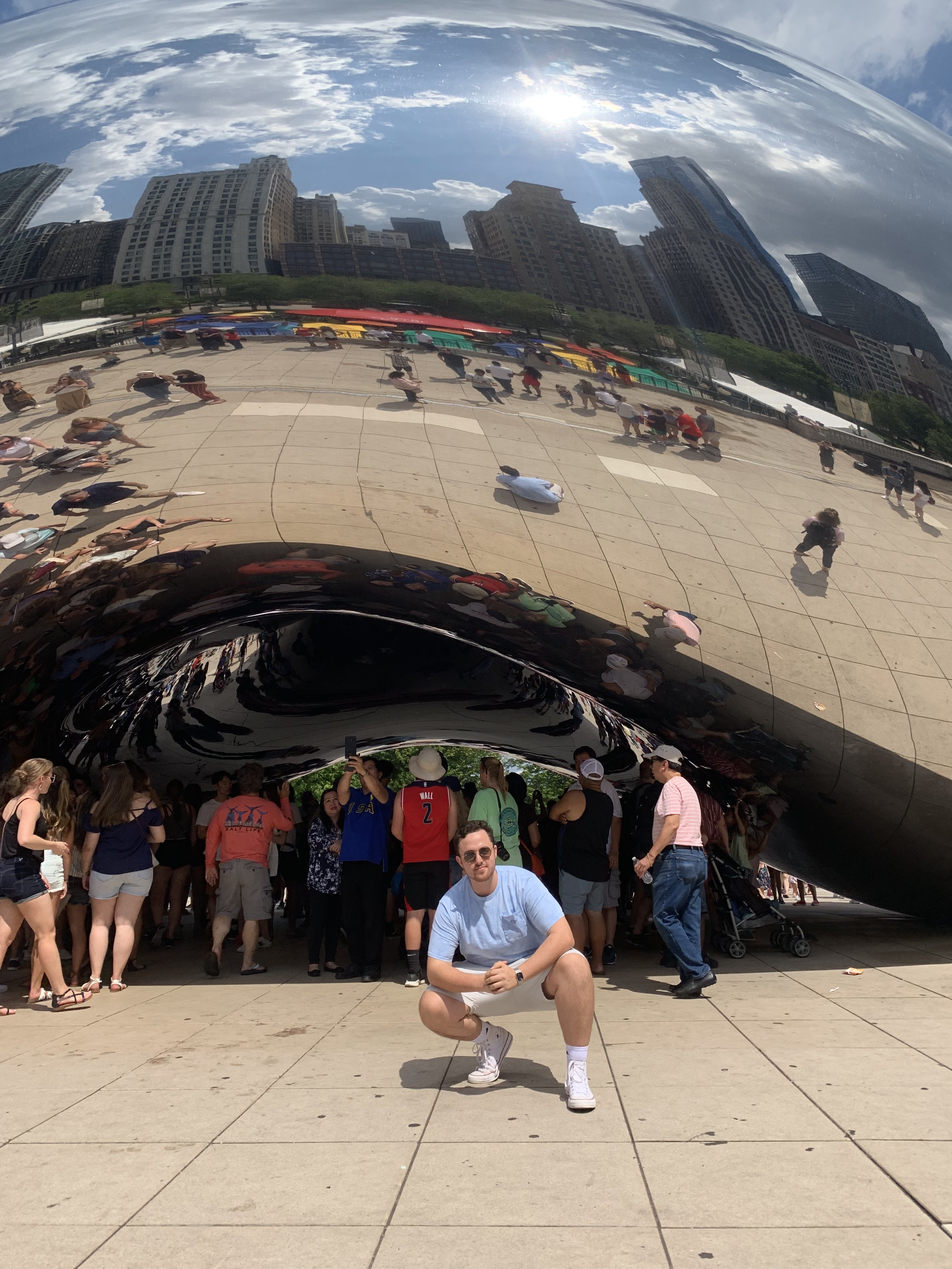
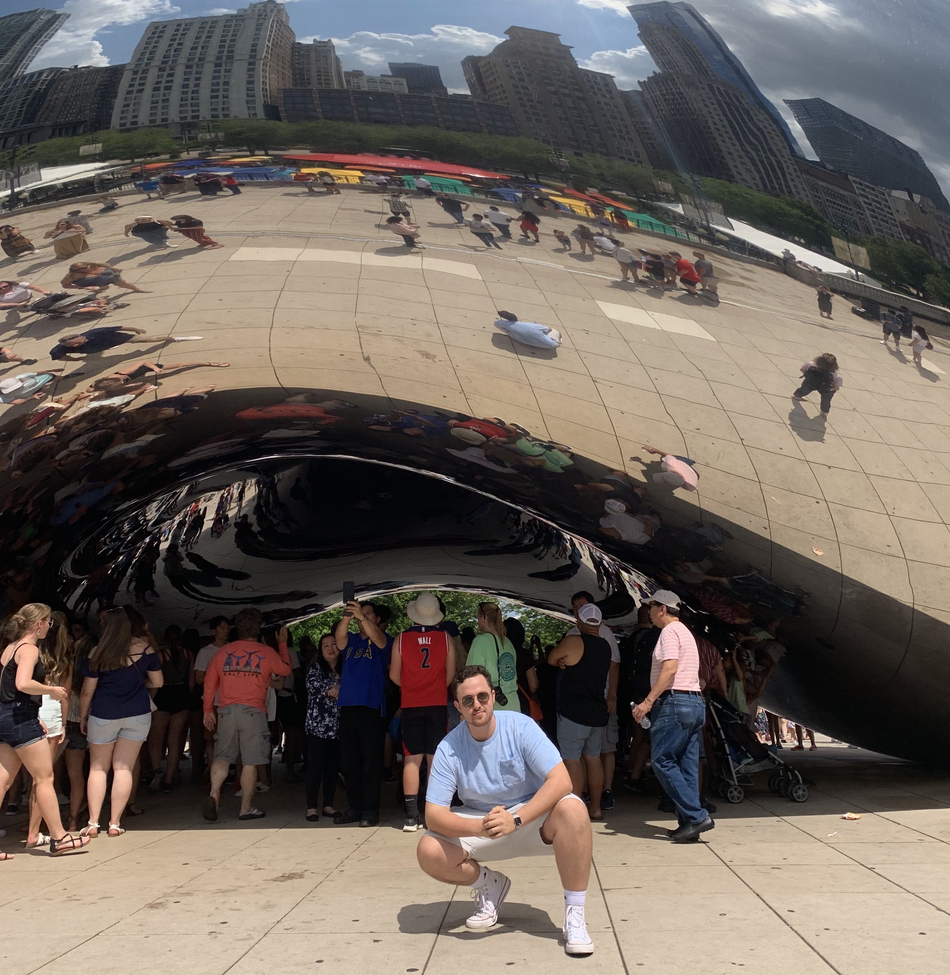
moved image and text to the middle of the screen

diff --git a/public/index.html b/public/index.html
@@ -6,13 +6,14 @@
     <link rel = "stylesheet" type="text/css" href="style.css"
   </head>
   <body>
-    <div class="">
+    <div class="container text-center">
       <h1>Big Bean Energy</h1>
     </div>
-    <div class="">
+    <div class="container justify-content-center">
       <img src="Jose.jpeg"
-        alt="big bean" width="80%">
+        alt="big bean" width="100%">
     </div>
 
   </body>
+  <link rel="stylesheet" href="https://stackpath.bootstrapcdn.com/bootstrap/4.3.1/css/bootstrap.min.css" integrity="sha384-ggOyR0iXCbMQv3Xipma34MD+dH/1fQ784/j6cY/iJTQUOhcWr7x9JvoRxT2MZw1T" crossorigin="anonymous">
 </html>
